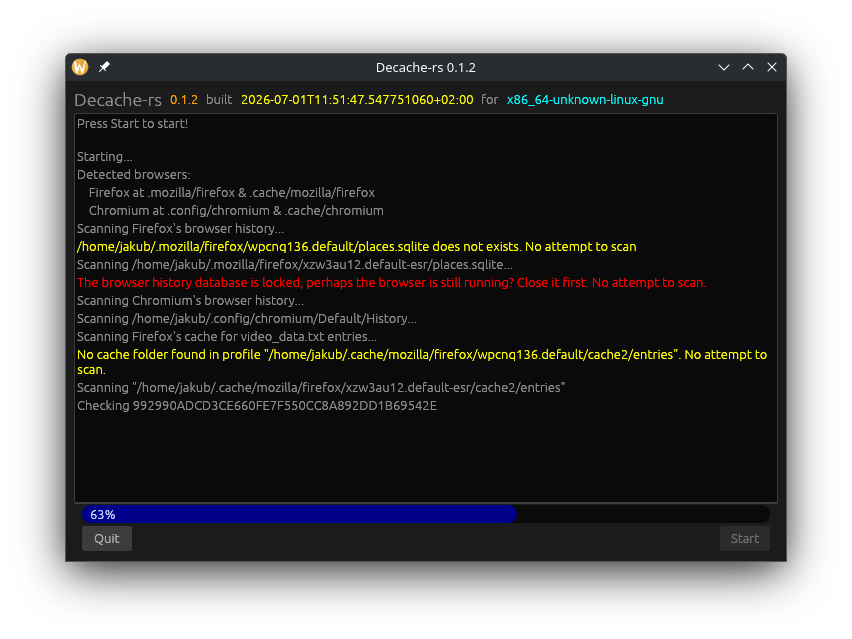
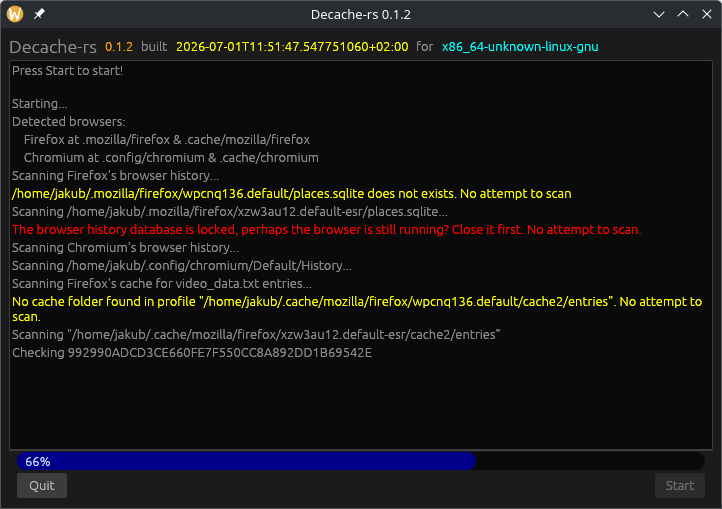
started reverse engineering chromium's cache_data_entry filetype

diff --git a/src/dataset.rs b/src/dataset.rs
@@ -1,7 +1,10 @@
+//! Contains structures and parsers for Decache's data files
+
 use std::fs::read_to_string;
 use std::path::{Path, PathBuf};
-///This struct is meant consume contents of files in "data" directory
-///See VideoData for special treatment of video_data.txt
+
+/// This struct is meant consume contents of files in "data" directory
+/// See VideoData for special treatment of video_data.txt
 pub struct DataSet {
     pub video_data: Vec<VideoData>,
     pub watch_page_data: Vec<String>,
@@ -20,18 +23,21 @@ pub struct DataSet {
 #[derive(Debug)]
 pub struct VideoData {
     //IN video_data.txt THIS IS A REGEX SPERATED BY + (i think)
-    ///Title of a video.
-    ///It's meant to consume a string with + signs instead of spaces. Perhaps a regex attempt.
+    /// Title of a video.
+    ///
+    /// It's meant to consume a string with + signs instead of spaces. Perhaps a regex attempt.
     pub title: String,
-    ///Ids of a video.
-    ///It's meant to consume vector of strings out of a string splited by ",".
+    /// Ids of a video.
+    ///
+    /// It's meant to consume vector of strings out of a string splited by ",".
     pub ids: Vec<String>,
-    ///Hash of a video.
-    ///It's meant to consume a u64 converted from a string.
+    /// Hash of a video.
+    ///
+    /// It's meant to consume a u64 converted from a string.
     pub hash: Vec<u64>,
-    ///Minimal duration of a searched video.
+    /// Minimal duration of a searched video.
     pub duration_min: String,
-    ///Maximal duration of a searched video.
+    /// Maximal duration of a searched video.
     pub duration_max: String,
 }
 
@@ -43,28 +49,27 @@ fn read_lines(path: impl AsRef<Path>) -> Result<Vec<String>, Box<dyn std::error:
     Ok(read_string)
 }
 
-///Loads all files from "data" directory into fields of DataSet.
+/// Loads all files from "data" directory into fields of DataSet.
 pub fn load_dataset(data_dir: PathBuf) -> Result<DataSet, Box<dyn std::error::Error>> {
-    //Loading dataset
-    //Read lines of video_data.txt
+    // Loading dataset
+    // Read lines of video_data.txt
     let video_data_path = data_dir.join("video_data.txt");
     let video_data = read_lines(&video_data_path)?;
 
     let mut video_data_struct_vec: Vec<VideoData> = Vec::new();
 
-    //process each line of the file
+    // process each line of the file
     for entry in video_data {
-        //remove quotes from the line
+        // remove quotes from the line
         let entry_sanitised = &entry
             .strip_prefix('"')
             .and_then(|entry| entry.strip_suffix('"'))
             .unwrap_or(&entry);
-        //split the line by "|" into a vector
+        // split the line by "|" into a vector
         let entry_vec: Vec<&str> = entry_sanitised.split('|').collect();
 
         if entry_vec.len() != 5 {
-            // panic when not enough data!!!
-
+            // error when not enough data!!!
             return Err(format!(
                 "Expected 5 fields, got {} in line: {}",
                 entry_vec.len(),
@@ -72,11 +77,11 @@ pub fn load_dataset(data_dir: PathBuf) -> Result<DataSet, Box<dyn std::error::Er
             )
             .into());
         }
-        //create VideoData structure from vector
+        // create VideoData structure from vector
         let entry_struct = VideoData {
             title: entry_vec[0].to_string(),
             ids: entry_vec[1]
-                .split(",") //split ids by ","
+                .split(",") // split ids by ","
                 .map(|p| p.to_string())
                 .collect(),
             hash: entry_vec[2]
@@ -89,32 +94,14 @@ pub fn load_dataset(data_dir: PathBuf) -> Result<DataSet, Box<dyn std::error::Er
         video_data_struct_vec.push(entry_struct);
     }
 
-    /*println!(
-        "Loaded {} entries from {}",
-        video_data_struct_vec.len(),
-        video_data_path.display()
-    );*/
     let watch_page_data_path = data_dir.join("watch_page_data.txt");
-    let watch_page_data = read_lines(&watch_page_data_path)?;
-    /*println!(
-        "Loaded {} entries from {}",
-        watch_page_data.len(),
-        watch_page_data_path.display()
-    );*/
+    let watch_page_data = read_lines(watch_page_data_path)?;
+
     let asset_data_path = data_dir.join("asset_data.txt");
-    let asset_data = read_lines(&asset_data_path)?;
-    /*println!(
-        "Loaded {} entries from {}",
-        asset_data.len(),
-        asset_data_path.display()
-    );*/
+    let asset_data = read_lines(asset_data_path)?;
+
     let history_data_path = data_dir.join("history_data.txt");
-    let history_data = read_lines(&history_data_path)?;
-    /*println!(
-        "Loaded {} entries from {}",
-        history_data.len(),
-        history_data_path.display()
-    );*/
+        let history_data = read_lines(history_data_path)?;
 
     Ok(DataSet {
         video_data: video_data_struct_vec,

diff --git a/src/scanner.rs b/src/scanner.rs
@@ -26,9 +26,9 @@ static BASE_DIR: LazyLock<PathBuf> = LazyLock::new(|| {
     path
 });
 
-fn browser_history_scan(browser: &Browser, search_vector: &Vec<String>, tx: &Sender<GuiMessage>) {
+fn browser_history_scan(browser: &Browser, search_vector: &Vec<String>, dataset_filename: &str, tx: &Sender<GuiMessage>) {
     tx.send(GuiMessage::Log(LogMessage {
-        message: format!("Scanning {}'s browser history...", &browser.name),
+        message: format!("Scanning {}'s browser history for {}'s entries...", &browser.name, dataset_filename),
         level: LogLevel::Info,
     }))
     .ok();
@@ -169,11 +169,12 @@ fn check_if_video_stream_is_complete() {
     todo!();
 }
 
-fn browser_cache_asset_scan(browser: &Browser, asset_data: &[String], tx: &Sender<GuiMessage>) {
+fn browser_cache_asset_scan(browser: &Browser, asset_data: &[String], dataset_filename: &str, tx : &Sender<GuiMessage>) {
     tx.send(GuiMessage::Log(LogMessage {
         message: format!(
-            "Scanning {}'s cache for asset_data.txt entries...",
-            browser.name
+            "Scanning {}'s cache for {}'s entries...",
+            browser.name,
+            dataset_filename
         ),
         level: LogLevel::Info,
     }))
@@ -297,12 +298,14 @@ fn browser_cache_asset_scan(browser: &Browser, asset_data: &[String], tx: &Sende
 fn browser_cache_video_scan(
     browser: &Browser,
     video_data: &[dataset::VideoData],
+    dataset_filename: &str,
     tx: &Sender<GuiMessage>,
 ) {
     tx.send(GuiMessage::Log(LogMessage {
         message: format!(
-            "Scanning {}'s cache for video_data.txt entries...",
-            browser.name
+            "Scanning {}'s cache for {} entries...",
+            browser.name,
+            dataset_filename
         ),
         level: LogLevel::Info,
     }))
@@ -514,14 +517,14 @@ pub fn process(tx: Sender<GuiMessage>) {
     };
     for browser in &detected_browsers {
         //search video ids in browser history
-        browser_history_scan(browser, &dataset.history_data, &tx); //<--DONE FOR LIBREWOLF/FIREFOX/CHROME/CHROMIUM on LINUX
+        browser_history_scan(browser, &dataset.history_data, "history_data.txt", &tx); //<--DONE FOR LIBREWOLF/FIREFOX/CHROME/CHROMIUM on LINUX
     }
     for browser in &detected_browsers {
-        browser_cache_video_scan(browser, &dataset.video_data, &tx); //<--DONE FOR LIBREWOLF/FIREFOX/CHROME/CHROMIUM on LINUX
+        browser_cache_video_scan(browser, &dataset.video_data, "video_data.txt", &tx); //<--DONE FOR LIBREWOLF/FIREFOX/CHROME/CHROMIUM on LINUX
     }
     for browser in &detected_browsers {
         //search assets in browser cache
-        browser_cache_asset_scan(browser, &dataset.asset_data, &tx); //<--DONE FOR LIBREWOLF/FIREFOX/CHROME/CHROMIUM
+        browser_cache_asset_scan(browser, &dataset.asset_data, "asset_data.txt", &tx); //<--DONE FOR LIBREWOLF/FIREFOX/
     }
     tx.send(GuiMessage::Log(LogMessage {
         message: "Done!".into(),

diff --git a/src/browsette.rs b/src/browsette.rs
@@ -1,10 +1,16 @@
-// The name of this crate made by me is a reference to Bowser turning into a woman meme :D
+//! Contains all need data of different browsers
+//! and everything needed for finding them
+//!
+//! The name of this module is the reference to Bowser turning into a woman meme :D
+
 use dirs::home_dir;
 use ini::Ini;
 use serde_json::Value;
 use std::fmt;
 use std::fs;
 
+
+/// Struct for browser data
 #[derive(Debug)]
 pub struct Browser {
     pub name: BrowserName,
@@ -38,19 +44,20 @@ impl fmt::Display for BrowserName {
 
 #[derive(Debug, Clone)]
 pub enum BrowserFamily {
+    /// Firefox-based
     Gecko,
+    /// Chromium-based
     Chromium,
 }
 
-// CHANGE THIS CODE BELLOW. For example a linux user might want to scan their Window's' drive
+// CHANGE THIS CODE BELLOW. For example a linux user might want to scan their Window's drive
+/// For now it equeals <OS_NAME>_SUPPORTED_BROWSERS
 #[cfg(target_os = "linux")]
 pub static SUPPORTED_BROWSERS: &[Browser] = LINUX_SUPPORTED_BROWSERS;
 #[cfg(target_os = "windows")]
 pub static SUPPORTED_BROWSERS: &[Browser] = WINDOWS_SUPPORTED_BROWSERS;
 
-/// Slice of structs with common data of said browsers
-
-/// Slice of structs with data about all covered browsers
+/// Slice of structs with data about all covered browsers for Linux
 pub static LINUX_SUPPORTED_BROWSERS: &[Browser] = &[
     Browser {
         name: BrowserName::Firefox,
@@ -94,6 +101,7 @@ pub static LINUX_SUPPORTED_BROWSERS: &[Browser] = &[
     },
 ];
 
+/// Slice of structs with data about all covered browsers for Windows
 pub static WINDOWS_SUPPORTED_BROWSERS: &[Browser] = &[
     Browser {
         name: BrowserName::Firefox,

diff --git a/src/gui_communication.rs b/src/gui_communication.rs
@@ -1,14 +1,22 @@
+//! Shares variables needed for sender-reciever communication with gui.
+
+/// Types of messages sent to gui by other modules
 pub enum GuiMessage {
+    /// Struct of message displayed in log view widget
     Log(LogMessage),
+    /// Struct of values of the progressbars
     Progress(ProgressMessage),
+    /// Bool to gray out Start button during scanning
     Finished,
 }
 
+/// Struct of text-message and it's level
 pub struct LogMessage {
     pub message: String,
     pub level: LogLevel,
 }
 
+/// Enum of log levels for messages that are being parsed in main and colorized accordingly
 pub enum LogLevel {
     Info,
     Warning,
@@ -16,6 +24,7 @@ pub enum LogLevel {
     Good,
 }
 
+/// Values of progressbars
 pub struct ProgressMessage {
     pub progress: f32,
     pub progress_total: f32,

diff --git a/src/bin/cache_data_entry_metadata.rs b/src/bin/cache_data_entry_metadata.rs
@@ -10,7 +10,7 @@ use std::{
 const CHROMIUM_CACHE_ENTRY_MAGICK: u32 = u32::from_le_bytes([0x30, 0x5C, 0x72, 0xA7]);
 
 #[derive(Debug)]
-struct EntryHeader {f
+struct EntryHeader {
     magick: u32,
     version: u32,
     key_len: u32,
